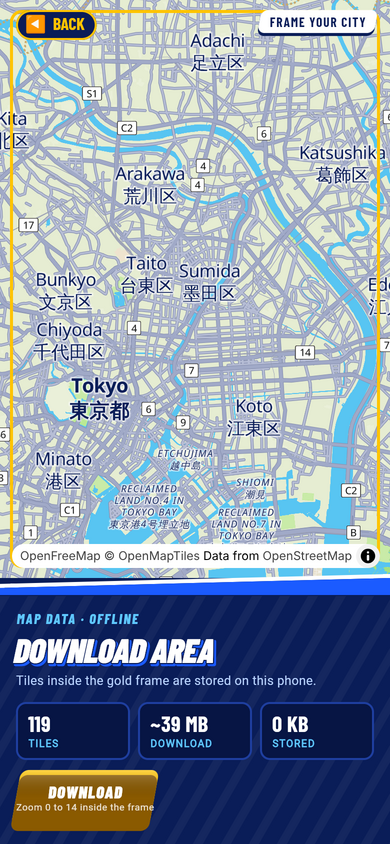
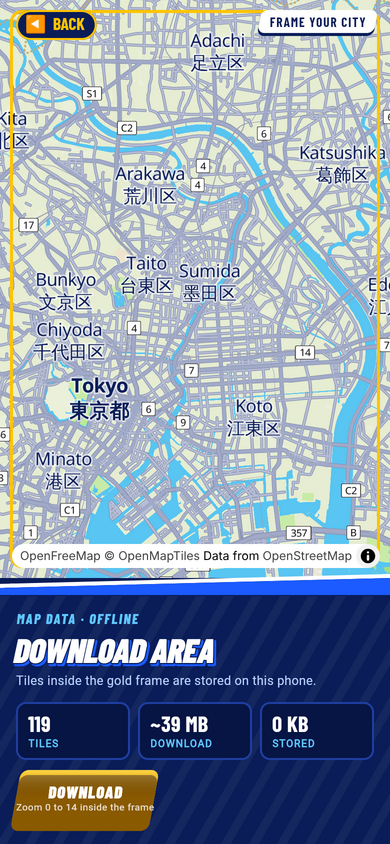
Smoothness pack: FXAA, contact shadows, parapet crown, window LOD, calmer labels
The map renders without multisampling, so building edges came in as hard
stair-steps and the window grid shimmered at distance. The fog pass now
runs FXAA over the finished frame before the tilt-shift. Walls darken
towards the ground, the top two metres get a lighter crown, and windows
fade out once a cell is only a few pixels wide. Neighbourhood names, POIs
and minor street names start two zoom levels later.

Claude-Session: https://claude.ai/code/session_01FuUQjCsx2aiKZDHCVPb3Fa

Changed region(s): [[0.2769, 0.5237, 0.5538, 0.6469], [0.5231, 0.5545, 0.8, 0.6469], [0.4923, 0.6469, 0.5231, 0.6777]]

diff --git a/tool/make_sonic_style.py b/tool/make_sonic_style.py
@@ -133,6 +133,12 @@ def recolour(style):
             else:
                 paint['line-color'] = ROAD_MINOR
         elif t == 'symbol':
+            # Fewer, calmer labels: the model should carry the scene.
+            later = {'label_other': 16, 'poi_r1': 16, 'poi_r7': 17, 'poi_r20': 18,
+                     'poi_transit': 16, 'highway-name-minor': 16,
+                     'highway-name-path': 17}
+            if lid in later:
+                layer['minzoom'] = max(layer.get('minzoom', 0), later[lid])
             if lid.startswith('label_'):
                 paint['text-color'] = LABEL
                 paint['text-halo-color'] = WHITE

diff --git a/README.md b/README.md
@@ -148,9 +148,16 @@ tiles:
   same shading; the per-vertex explored value comes from the fog mask.
 - **Ground:** grassy land, soft asphalt roads with white dashed centre lines
   on the bigger streets, vivid parks, bright water, warm directional light.
-- **Post-process (iOS):** the fog pass also applies a tilt-shift blur at the
-  top and bottom of the frame, a touch of saturation and warmth, and a soft
-  vignette (`shaders/fog.frag`).
+- **Post-process (iOS):** the map is rendered without multisampling, so the
+  fog pass runs FXAA over the finished frame first (building edges stop
+  stair-stepping), then a tilt-shift blur at the top and bottom of the
+  frame, a touch of saturation and warmth, and a soft vignette
+  (`shaders/fog.frag`).
+- **Facade detail:** walls darken towards the ground (contact shadow), the
+  top two metres get a lighter parapet crown, and the window grid fades out
+  once a window is only a few pixels wide so distant facades stay calm.
+- **Labels:** neighbourhood names, POIs and minor street names only appear
+  from zoom 16 to 18, so the model carries the scene.
 
 Next in this direction: low-poly trees in parks and along streets, and
 landmark models at spots, both through the map's GPU mesh callback.
